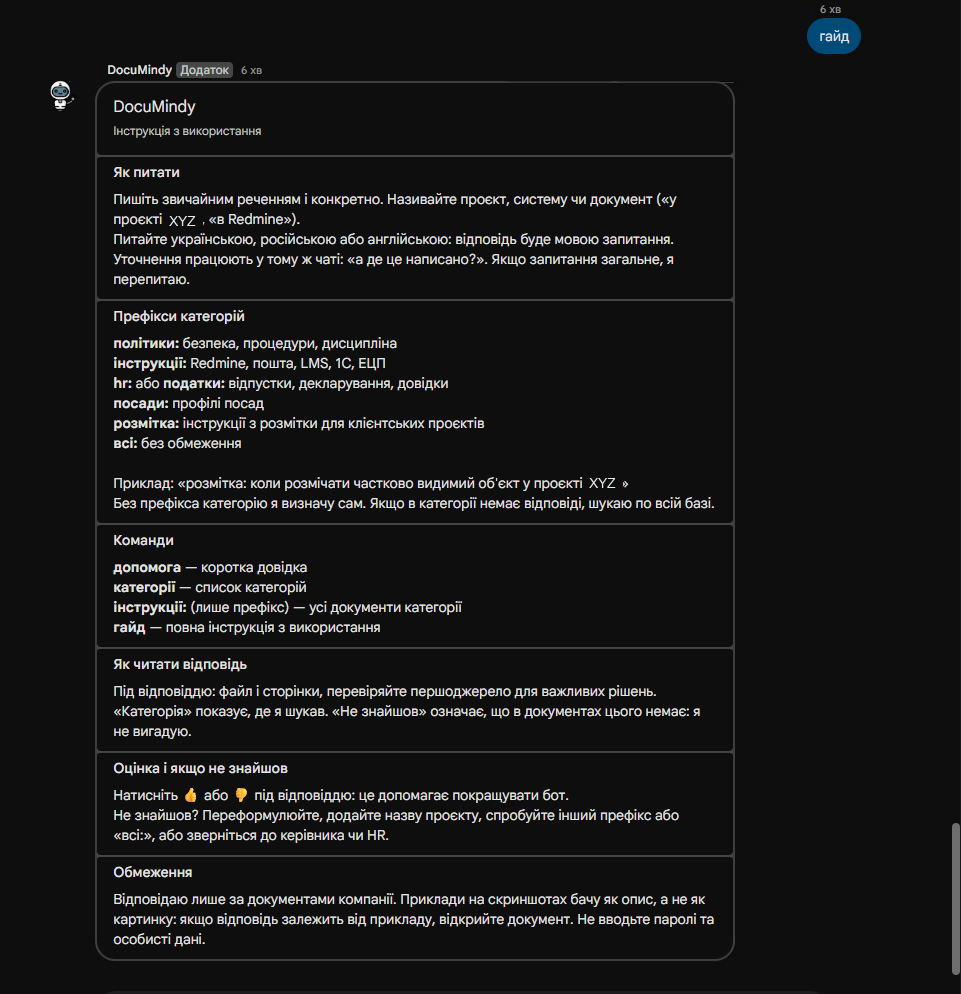
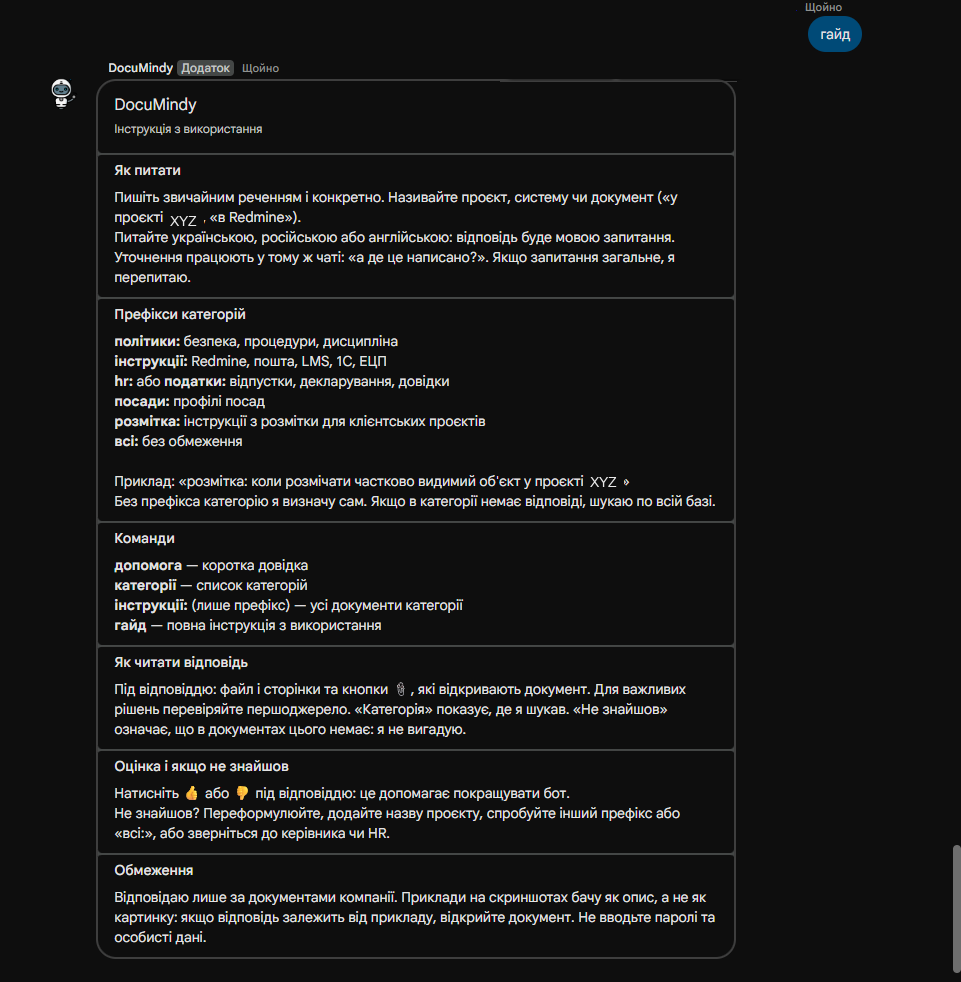
docs: updated screenshots (guide card and answer with file buttons)

diff --git a/README.md b/README.md
@@ -49,11 +49,11 @@ flowchart LR
 
 ## Скриншоти
 
-**Відповідь бота в Google Chat** (картка з відповіддю та джерелами: файл і сторінки):
+**Відповідь бота в Google Chat** (картка з відповіддю, джерелами (файл і сторінки), категорією, кнопками 📎 для відкриття файлів і 👍/👎 для оцінки):
 
 ![Відповідь про обов'язки посади](docs/chat-answer-head-of-recruitment.png)
 
-![Відповідь про вимоги до паролів і роботу з LMS](docs/chat-answer-passwords-lms.png)
+![Відповідь про вимоги до паролів: джерела, категорія, кнопки 📎 для відкриття файлів і 👍/👎 для оцінки](docs/chat-answer-passwords-lms.png)
 
 **Команда «гайд»** (повна інструкція з використання: префікси категорій, команди, оцінки, обмеження; бот показує її й на «допомога», «що ти вмієш»):
 
